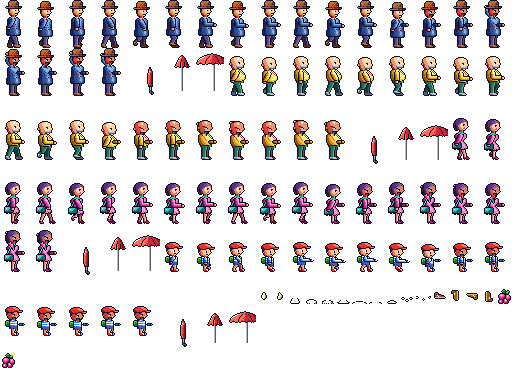
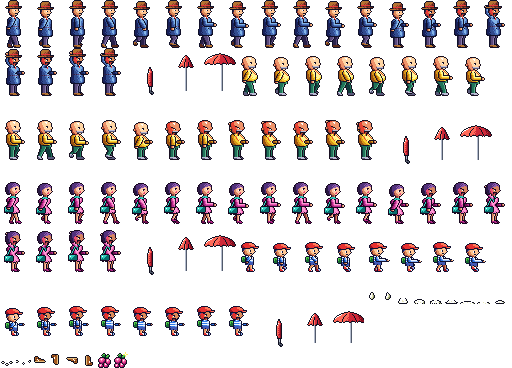
Widen the Poop the Man umbrella cell to 36 px so the open canopy is no longer cut off, and fix pm_piece pad_left sign
The open canopy spans x 4..36 of the walker cell but the umbrella cell was 32 wide, so the import clipped 4 px off its right edge; walkers face left on screen (flipped), so that showed as the LEFT side cut. Umbrellas now take 3 sprite columns each.

diff --git a/src/main.c b/src/main.c
@@ -2266,15 +2266,15 @@ static void pop_show_pieces(const Game *g) {
 /* Poop the Man (gg_poop.h): screen-space view, no camera. Birds use the Pop Drop fall frames in the Pop Drop bird slots; walkers, umbrellas, poops,
  * shoes and the berry (assets/poop) sit in the pool range slots, which Pop Drop's hide bookkeeping (g_pd_new/g_pd_shown) already tracks. */
 #define PM_W_SLOT PD_BACK                    /* 7 walkers x 2 columns */
-#define PM_U_SLOT (PM_W_SLOT + PM_WALKERS * 2)   /* 7 umbrellas x 2 */
-#define PM_P_SLOT (PM_U_SLOT + PM_WALKERS * 2)   /* 6 poops */
+#define PM_U_SLOT (PM_W_SLOT + PM_WALKERS * 2)   /* 7 umbrellas x 3 (the open canopy is 36 wide) */
+#define PM_P_SLOT (PM_U_SLOT + PM_WALKERS * 3)   /* 6 poops */
 #define PM_S_SLOT (PM_P_SLOT + PM_POOPS)         /* 3 shoes */
 #define PM_H_SLOT (PM_S_SLOT + PM_SHOES)                /* 7 head splats x 1 column */
 _Static_assert(PM_H_SLOT + PM_WALKERS <= PD_BACK + PD_BACK_N, "Poop the Man slots overflow the Pop Drop hide range");
 
 /* One poop frame; (ox, oy) = top left of its sheet cell (cw wide), the opaque box sits pad_left / pad_top inside it. */
 static void pm_piece(u16 slot, const PoopFrame *f, int ox, int oy, int cw, int flip, u16 pal) {
-    int x = flip ? ox + cw - f->pad_left - f->tiles_w * 16 : ox + f->pad_left;
+    int x = flip ? ox + cw + f->pad_left - f->tiles_w * 16 : ox - f->pad_left;   /* pad_left = art inset inside the tiles */
     if (!camera_visible(x, f->tiles_w * 16)) return;
     const u16 *t = &poop_tile_index[f->tile_offset];
     for (u8 c = 0; c < f->tiles_w; c++)
@@ -2328,7 +2328,7 @@ static void poop_show_pieces(const Game *g) {
         }
         if (w->umb && w->st == PM_WALK) {
             const PoopFrame *u = pm_frame((u8)(anim + 1), 2);
-            pm_piece((u16)(PM_U_SLOT + k * 2), u, cx - 16, feet - 64, 32, flip, (u16)(POOP_PAL_SLOT + u->palette));
+            pm_piece((u16)(PM_U_SLOT + k * 3), u, flip ? cx - 20 : cx - 16, feet - 64, 36, flip, (u16)(POOP_PAL_SLOT + u->palette));
         }
     }
     for (u8 k = 0; k < PM_POOPS; k++) {

diff --git a/tools/import_poop_sheet.py b/tools/import_poop_sheet.py
@@ -3,7 +3,7 @@
 Usage: python3 -I tools/import_poop_sheet.py
 Every pixel comes from the hand-typed grids in thoughts/shared/drafts/2026-11-20-poop-the-man-v2/draw_poop_the_man.py (imported, its
 main() is not run); this file only stamps the grids into transparent cells and writes the frame rectangles.
-Cells: walker 32x48 (20 frames: walk 6, umbrella walk 6, hit 3, fist 2, throw 3), umbrella 32x64 (the walker cell plus 16 px above it; closed, half,
+Cells: walker 32x48 (20 frames: walk 6, umbrella walk 6, hit 3, fist 2, throw 3), umbrella 36x64 (the walker cell plus 16 px above it; closed, half,
 open, shaft included, drawn at the walker's x and top - 16), items 16x16 (poop 8x8 at 4,4; splats bottom aligned). Street plane, fix-layer pips
 and rain are not imported yet."""
 import importlib.util, json, os
@@ -27,6 +27,7 @@ def cell(w, h, parts, pal):
     return im
 
 UOFF = 16
+UW = 36   # the open canopy spans x 4..36 of the walker cell (grip - 18 .. + 14), so the umbrella cell is 36 wide
 anims, fixed, extra = {}, {}, {}
 for tp in d.TYPES:
     fr = d.FR[tp]
@@ -34,7 +35,7 @@ for tp in d.TYPES:
     fixed[tp] = [s5(c) for c in d.WPAL[tp].values()]
     blank = ["." * 32] * 48
     def umb(kind):
-        im = Image.new("RGB", (32, 48 + UOFF), (255, 0, 255)); d.draw_walker(im, 0, UOFF, tp, blank, umb=kind, ucol="red")
+        im = Image.new("RGB", (UW, 48 + UOFF), (255, 0, 255)); d.draw_walker(im, 0, UOFF, tp, blank, umb=kind, ucol="red")
         px, out = im.load(), Image.new("RGBA", im.size, (0, 0, 0, 0)); op = out.load()
         for y in range(im.height):
             for x in range(im.width):
